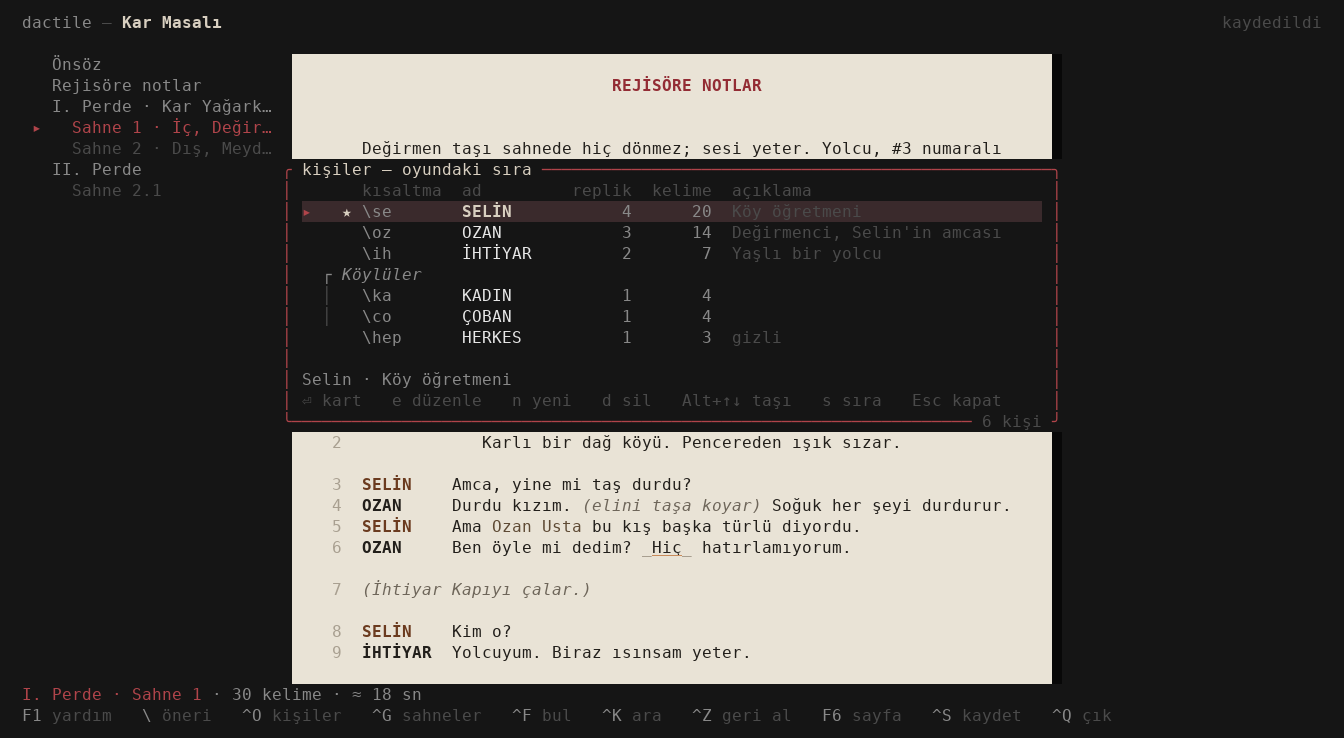
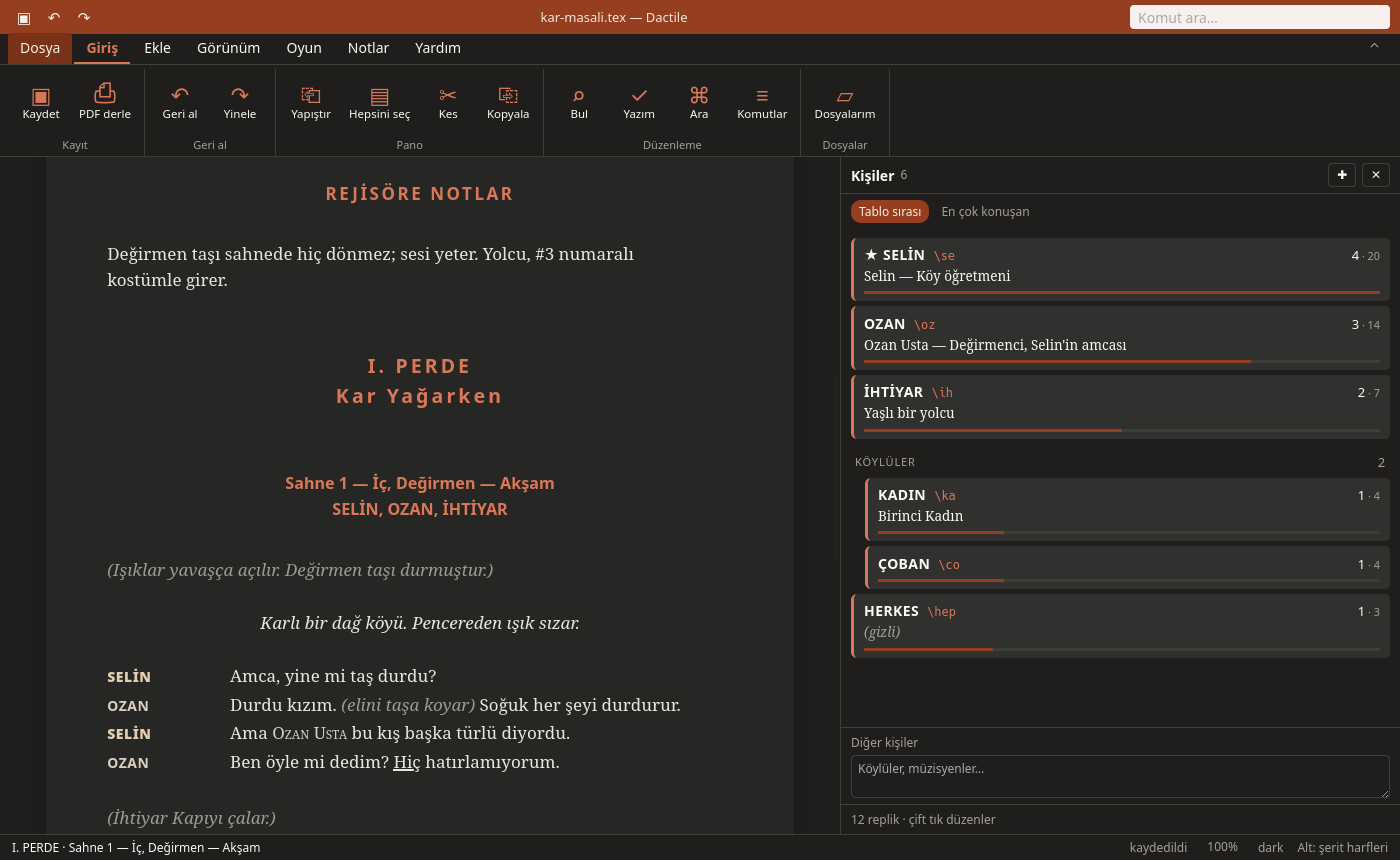
docs: new pictures of Dactile; the start screen says the real version; import's people buttons fit

diff --git a/app/src/lib/Start.svelte b/app/src/lib/Start.svelte
@@ -9,12 +9,15 @@
   import LookForm from "./LookForm.svelte";
   import { applyLook, pickLook } from "./look";
   import Temporary from "./Temporary.svelte";
+  import { getVersion } from "@tauri-apps/api/app";
 
   let { home, tr, open, reload }: { home: Home; tr: boolean; open: (path: string) => void; reload: () => Promise<void> } =
     $props();
 
   type Section = "home" | "new" | "open" | "settings" | "keys";
   let section = $state<Section>("home");
+  let version = $state("");
+  void getVersion().then((v) => (version = v));
   let chosen = $state<PlayCard | null>(null);
   let preview = $state<Preview | null>(null);
   let files = $state<Files | null>(null);
@@ -337,7 +340,7 @@
       </button>
     {/each}
     <div class="grow"></div>
-    <div class="ver">0.2.0-beta.6</div>
+    <div class="ver">{version}</div>
   </nav>
 
   <main>

diff --git a/app/src/lib/Import.svelte b/app/src/lib/Import.svelte
@@ -1043,6 +1043,12 @@
     white-space: nowrap;
     text-align: right;
   }
+  .left .acts select,
+  .left .acts button {
+    display: block;
+    width: 100%;
+    margin-bottom: 3px;
+  }
   tbody .acts > * {
     opacity: 0.55;
   }

diff --git a/README.tr.md b/README.tr.md
@@ -90,7 +90,7 @@ dactile-light import oyun.docx  # bir belgeden oyun (bkz. İçe aktarma)
 İlk açılışta dil (Türkçe ya da İngilizce), oyunların duracağı klasör, adın ve
 öneri menüsünün nasıl açılacağı sorulur.
 
-![Ana ekran](docs/home.png)
+![Ana ekran](docs/start.png)
 
 Ana ekran bir kelime işlemcinin açılış ekranı gibi dizilir. Soldaki sütun
 Giriş, Yeni, Aç, Ayarlar ve Tuşlar bölümlerine götürür; Tab sütun, kutucuklar
@@ -136,8 +136,6 @@ yapraklara böler: PDF'in yeni sayfa açtığı yerlerde (kapak, önsöz, kişil
 her perde) ve yaprak dolunca; altta sayfa numarasıyla. Geniş ekranda oyunun iskeleti kenarda
 durur; tıklayınca oraya gider.
 
-![Öneri menüsü](docs/menu.png)
-
 | Tuş | |
 |---|---|
 | F10 | üstteki şerit, bir kelime işlemcideki gibi: sekmeler (Dosya, Giriş, Ekle, Görünüm, Oyun, Notlar, Yardım) ve altında gruplanmış düğmeler; F10 her sekmenin, sonra her düğmenin üstünde bir harf gösterir (F10 E A bir sahne yönergesi ekler), oklar ve fare de çalışır. Dosya ayrı bir sayfa açar: oyunun bilgileri, PDF, kopyalar, şablonlar. ^F1 şeridi sekmelerine katlar |
@@ -160,8 +158,6 @@ durur; tıklayınca oraya gider.
 | ^Z ^Y, ^C ^X ^V | geri al, yinele, kopyala, kes, yapıştır |
 | ^S, ^Q | kaydet (zaten kendiliğinden kaydeder), çık |
 | F1 | bir klavye: bir tuşa bas, ne yaptığını görürsün |
-
-![Tuşlar](docs/help.png)
 
 ![Kişiler](docs/cast.png)
 

diff --git a/README.md b/README.md
@@ -89,7 +89,7 @@ dactile-light import oyun.docx  # a play made of a document (see Importing)
 The first run asks for the language (Turkish or English), the folder your
 plays live in, your name, and how the suggestion menu opens.
 
-![Home](docs/home.png)
+![Home](docs/start.png)
 
 The home screen is laid out like a word processor's start screen. A column
 on the left goes to Giriş (home), Yeni (new), Aç (open), Ayarlar (settings)
@@ -135,8 +135,6 @@ into A4 sheets where the PDF starts a new page (the cover, the preface, the
 cast table, each act) and where a sheet fills up, with page numbers. On a wide
 screen the play's outline sits in the margin; a click goes there.
 
-![Suggestions](docs/menu.png)
-
 | Key | |
 |---|---|
 | F10 | the ribbon along the top, as in a word processor: tabs (File, Home, Insert, View, Play, Notes, Help) and their buttons in groups; F10 shows a letter on each tab, then on each button (F10 N A puts in a stage direction), the arrows work too, and the mouse. File opens a page of its own: the play's details, PDF, copies, templates. ^F1 folds the ribbon to its tabs |
@@ -159,8 +157,6 @@ screen the play's outline sits in the margin; a click goes there.
 | ^Z ^Y, ^C ^X ^V | undo, redo, copy, cut, paste |
 | ^S, ^Q | save (it saves by itself anyway), quit |
 | F1 | a keyboard: press any key to see what it does |
-
-![The keys](docs/help.png)
 
 ![The cast](docs/cast.png)
 

diff --git a/docs/tr/yazmak.md b/docs/tr/yazmak.md
@@ -3,6 +3,8 @@
 Oyun, [tiyatro sınıfının](tiyatro-sinifi.md) yazımıyla yazılır. Yazdıkça
 komutlar canlanır: `\se Amca` hemen `SELİN   Amca` olur.
 
+![Yazı ekranı](../writer.png)
+
 ## Kişiler
 
 Her kişinin bir adı ve bir kısaltması vardır:
@@ -20,6 +22,8 @@ Kişileri kişiler panelinden (**Ctrl+O**) yönetmek daha kolaydır: düzenleme,
 kısaltmayı her yerde değiştirme, sıralama, kişi kartları. Dactile Light'ta aynı
 panelde `m` iki kişiyi birleştirir, `b` birini seçtiğin sahnelerle ikiye ayırır,
 `g` yeni grup açar.
+
+![Kişiler paneli](../cast.png)
 
 ## Replik ve yönerge
 
@@ -55,6 +59,8 @@ Sahnede kim varsa başlığının altında kendiliğinden toplanır.
 **F6** temayı değiştirir: kâğıt, sepya, gece, yüksek kontrast, koyu. Dactile'da
 Ayarlar'daki **Sürpriz yap** düğmesi her basışta yeni renkler üretir. Vurgu
 rengi, yazı tipi, boyut, satır aralığı ve sayfa genişliği de oradadır.
+
+![Tema seçimi ve Sürpriz yap](../look.png)
 
 **F7** A4 sayfa görünümüdür: sayfalar PDF'in kırıldığı yerde kırılır.
 

diff --git a/docs/en/writing.md b/docs/en/writing.md
@@ -3,6 +3,8 @@
 A play is written in the syntax of the [tiyatro class](tiyatro-class.md). The
 commands come alive as you type: `\se Amca` turns into `SELİN   Amca` on the spot.
 
+![The writer](../writer.png)
+
 ## Characters
 
 Each character has a name and an alias:
@@ -19,6 +21,8 @@ Each character has a name and an alias:
 The cast panel (**Ctrl+O**) is the easier way: edit, rename an alias everywhere,
 order, character cards. In Dactile Light the same panel has `m` to merge two
 characters, `b` to split one by the scenes you pick, `g` for a new group.
+
+![The cast panel](../cast.png)
 
 ## Lines and directions
 
@@ -54,6 +58,8 @@ Who appears in a scene gathers under its heading by itself.
 **F6** changes the theme: paper, sepia, night, high contrast, dark. In Dactile,
 **Surprise me** under Settings makes new colours at every press. The accent, font,
 size, line spacing and page width are there too.
+
+![Themes and Surprise me](../look.png)
 
 **F7** is the A4 page view: sheets break where the PDF breaks.
 

diff --git a/docs/tr/ice-aktarma.md b/docs/tr/ice-aktarma.md
@@ -41,6 +41,8 @@ sağda üç sekme vardır:
 - **Kişi listesi:** Listeyi metin olarak düzeltirsin.
 - **Oyun:** Sonucun nasıl görüneceği.
 
+![Önizleme](../import-play.png)
+
 Seçim yapınca iki satır araç çıkar:
 
 - **Bu bölüm:** Seçimi kapak, künye, içindekiler, önsöz, yazar, kişiler, notlar ya
@@ -58,6 +60,8 @@ Cilt, içindekiler ve başlık sayfalarından tanınır. Bunlar yoksa kimin konu
 bakılır; böyle bulunan oyun **tahmin** diye işaretlenir.
 
 Cilt, oyunların sayfa, replik ve kişi sayılarıyla bir listede açılır:
+
+![Cilt ekranı](../import-volume.png)
 
 1. Almak istediklerini işaretle.
 2. Bakmak ve düzeltmek için oyunun adına tıkla. **← Cilt** listeye döner.

diff --git a/docs/en/importing.md b/docs/en/importing.md
@@ -40,6 +40,8 @@ the parts and the people. On the right, three tabs:
 - **Cast list:** The list, put right as text.
 - **Play:** How the result will read.
 
+![The preview](../import-play.png)
+
 A choice brings two rows of tools:
 
 - **This part:** Marks it as the cover, imprint, contents, preface, author, cast,
@@ -56,6 +58,8 @@ A volume is told by its contents and title pages. Without them Dactile looks at 
 speaks, and a play found that way is marked as a **guess**.
 
 The volume opens on a list of its plays with their pages, lines and people:
+
+![The volume screen](../import-volume.png)
 
 1. Tick those to take.
 2. Click a play's name to look it over. **← Volume** goes back.

diff --git a/docs/en/staging.md b/docs/en/staging.md
@@ -7,6 +7,8 @@ Once the play is written, Dactile helps with rehearsals too.
 **Ctrl+G** opens the board. In Dactile Light, once gives the scene strip beside the
 writing and twice quickly the full-screen board; Tab goes between list and cards.
 
+![The board](../board.png)
+
 - ⏎ goes to the scene, `e` writes its summary. A summary is never printed.
 - Alt+↑↓ moves a scene. `m` picks it up, the arrows choose where, ⏎ puts it down.
 - `j` joins it with the next; Alt+B in the writer splits it at the cursor.

diff --git a/docs/tr/sahneye-hazirlik.md b/docs/tr/sahneye-hazirlik.md
@@ -7,6 +7,8 @@ Oyun bitince Dactile provaya da hazırlar.
 **Ctrl+G** panoyu açar. Dactile Light'ta bir kez basmak yanda sahne şeridini,
 çabuk iki kez basmak tam ekran panoyu açar; Tab liste ve kartlar arasında geçer.
 
+![Pano](../board.png)
+
 - ⏎ sahneye gider, `e` özetini yazar. Özet PDF'e girmez.
 - Alt+↑↓ sahneyi taşır. `m` alır, oklar yer seçer, ⏎ bırakır.
 - `j` sonrakiyle birleştirir; Alt+B yazarken sahneyi imleçten böler.

diff --git a/docs/tr/baslangic.md b/docs/tr/baslangic.md
@@ -39,6 +39,8 @@ cd dactile-light-*-x86_64-linux
 - **Yazım denetimi için Türkçe Hunspell sözlüğü:** Arch'ta `paru -S hunspell-tr`.
   Sözlük yoksa geri kalan her şey çalışır.
 
+![Başlangıç ekranı](../start.png)
+
 ## İlk açılış
 
 İlk açılışta dil, oyunların duracağı klasör, adın ve öneri menüsünün nasıl

diff --git a/docs/en/getting-started.md b/docs/en/getting-started.md
@@ -39,6 +39,8 @@ cd dactile-light-*-x86_64-linux
 - **A Turkish Hunspell dictionary for spell checking:** on Arch,
   `paru -S hunspell-tr`. Everything else works without one.
 
+![The start screen](../start.png)
+
 ## The first run
 
 The first run asks for the language, the folder your plays live in, your name,
